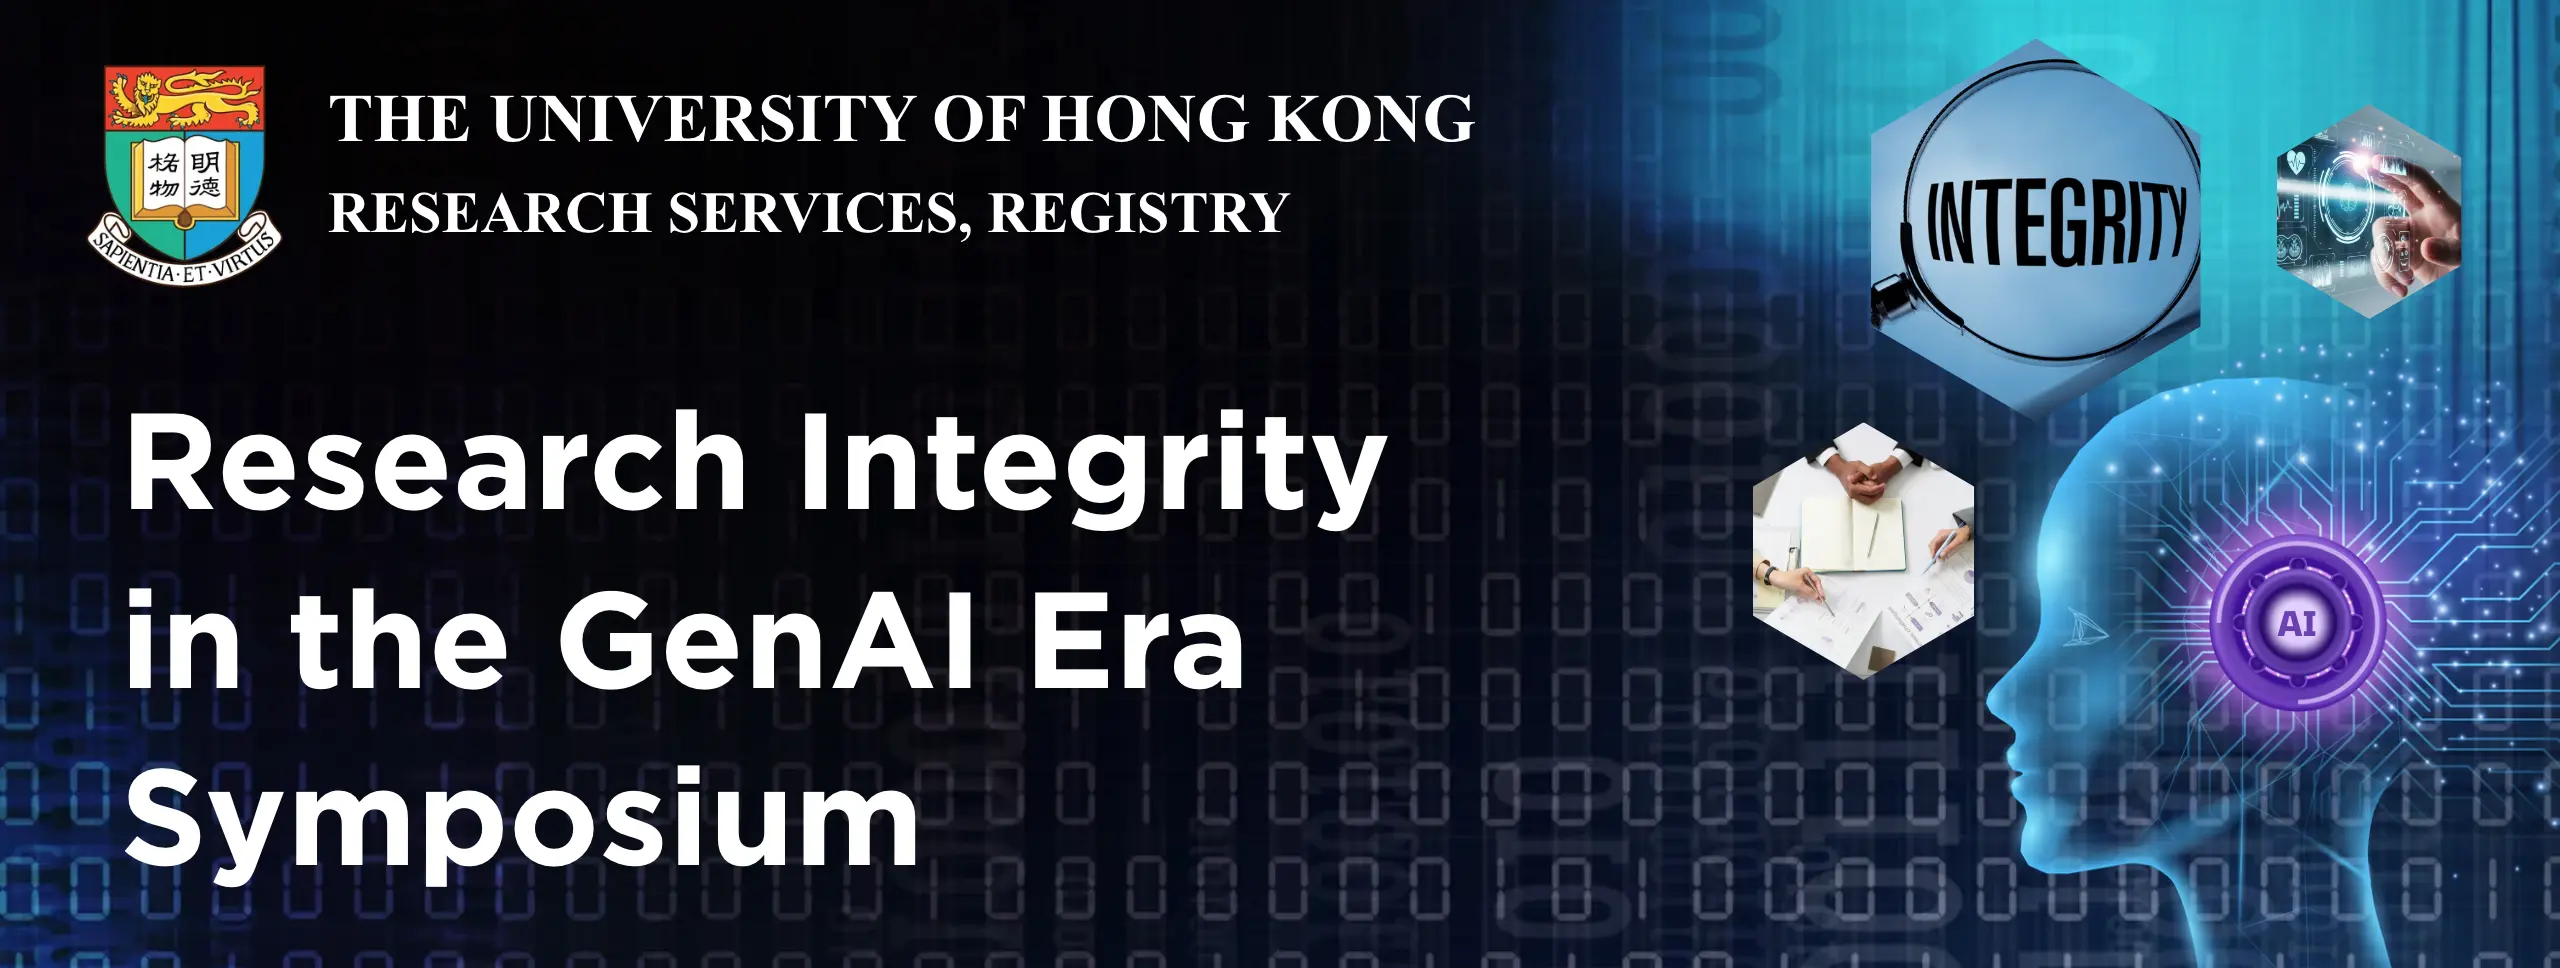
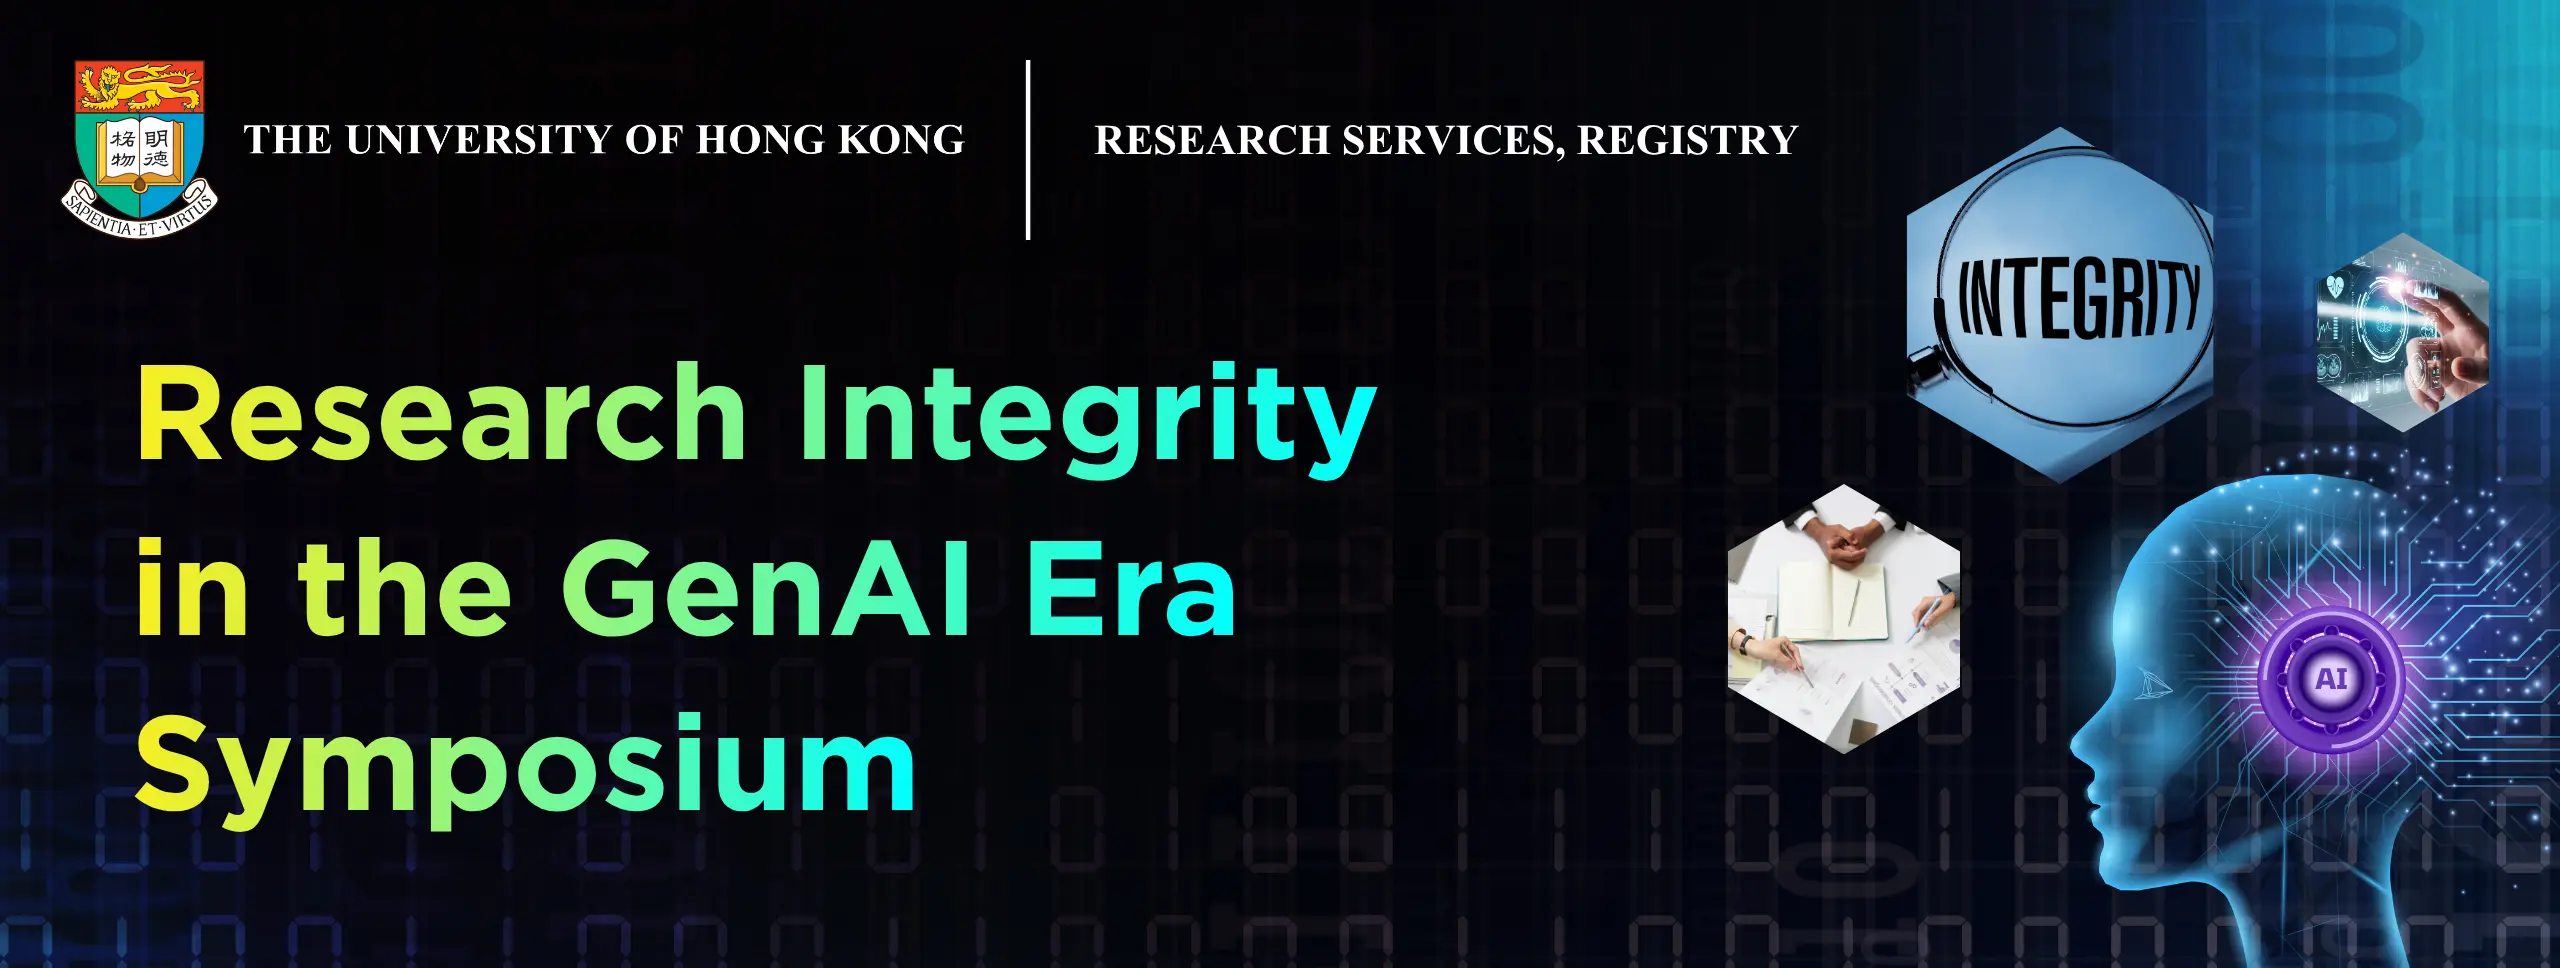
updates

diff --git a/index.html b/index.html
@@ -111,23 +111,18 @@
                                 </tr>
                                 <tr>
                                     <td>9:30am-9:35am</td>
-                                    <td>Welcome message</td>
-                                    <td>TBC</td>
+                                    <td>Welcome Message</td>
+                                    <td>Professor Richard WONG, SBS, JP</td>
                                 </tr>
                                 <tr>
                                     <td>9:35am-9:50am</td>
-                                    <td>Opening remarks</td>
-                                    <td>Professor James TANG, Dr. Ping Chung NG, Mr. David FOSTER</td>
+                                    <td>Opening Remarks</td>
+                                    <td>Professor James TANG, Dr. Chung NG, Mr. David FOSTER</td>
                                 </tr>
-                                <!-- <tr>
-                                    <td></td>
-                                    <td>Welcome message</td>
-                                    <td>TBC</td>
-                                </tr> -->
                                 <tr>
                                     <td>9:50am-9:55am</td>
-                                    <td>Group photo</td>
-                                    <td>-</td>
+                                    <td>Group Photo</td>
+                                    <td></td>
                                 </tr>
                                 <tr>
                                     <td>9:55am-10:00am</td>
@@ -142,7 +137,7 @@
                                 <tr>
                                     <td>10:20am-10:40am</td>
                                     <td>Coffee Break</td>
-                                    <td>-</td>
+                                    <td></td>
                                 </tr>
                                 <tr>
                                     <td>10:40am-12:00pm</td>
@@ -151,7 +146,7 @@
                                 </tr>
                                 <tr>
                                     <td></td>
-                                    <td>AI in STEM Research (TBC)</td>
+                                    <td>Foundation Models and STEM Research</td>
                                     <td>Professor David CLIFTON</td>
                                 </tr>
                                 <tr>
@@ -162,7 +157,7 @@
                                 <tr>
                                     <td>12:00pm-1:30pm</td>
                                     <td>Lunch Break</td>
-                                    <td>-</td>
+                                    <td></td>
                                 </tr>
                                 <tr>
                                     <td>1:30pm-2:50pm</td>
@@ -191,13 +186,13 @@
                                 </tr>
                                 <tr>
                                     <td></td>
-                                    <td>Emerging challenges in research data management</td>
+                                    <td>Emerging Challenges in Research Data Management</td>
                                     <td>Professor Joshua HO</td>
                                 </tr>
                                 <tr>
                                     <td>3:20pm-3:50pm</td>
                                     <td>Coffee Break</td>
-                                    <td>-</td>
+                                    <td></td>
                                 </tr>
                                 <tr>
                                     <td>3:50pm-5:20pm</td>
@@ -208,7 +203,7 @@
                                 </tr>
                                 <tr>
                                     <td>5:20pm-5:30pm</td>
-                                    <td>Concluding remarks</td>
+                                    <td>Concluding Remarks</td>
                                     <td>Professor Stephanie MA</td>
                                 </tr>
                             </tbody>
@@ -241,6 +236,12 @@
                         </p></br>
                         <p>No technical background is required. This is a story for anyone curious about where one of
                             the oldest sciences is heading in the age of intelligent machines.</p>
+                        </p>
+                    </div>
+                    <div class="description" style="margin-top: 20px;">
+                        <div class="abstract-name">Foundation Models and STEM Research</div>
+                        <div class="abstract-speaker">Speaker:  Professor David Clifton</div>
+                        <p>Foundation models, including large language models, have very great potential for innovation in STEM subjects. This talk introduces research with examples from the field of medical AI physical sciences, including the uses of AI throughout the pipeline of STEM research: hypothesis generation, methodological research, and technology-transfer into real-world applications.
                         </p>
                     </div>
                     <div class="description" style="margin-top: 20px;">
@@ -324,8 +325,8 @@
                 <!-- 2 -->
                 <div class="col-sm-6 col-md-6">
                     <div class="guest-card">
-                        <img class="guest-image" src="images/Dr._Ping_Chung_NG.webp" alt="Dr. Ping Chung Ng" />
-                        <div class="guest-name">Dr. Ping Chung Ng</div>
+                        <img class="guest-image" src="images/Dr._Ping_Chung_NG.webp" alt="Dr. Chung Ng" />
+                        <div class="guest-name">Dr. Chung Ng</div>
                         <div class="guest-title">Deputy Commissioner (Data Governance), Digital Policy Office</div>
                     </div>
                 </div>